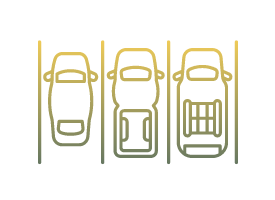
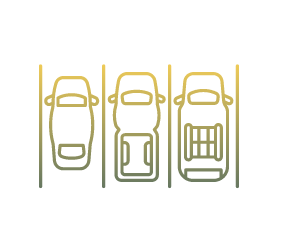
home-adj

Changed region(s): [[0.1164, 0.18, 0.8727, 0.84]]

diff --git a/app/assets/stylesheets/components/_navbar.scss b/app/assets/stylesheets/components/_navbar.scss
@@ -18,8 +18,45 @@
   width: 150px;
 }
 
+.nav-item-dropdown {
+  z-index: 4;
+}
+
 .nav-link {
-  color: rgb(224, 215, 195);
+  display: block;
+  padding: var(--bs-nav-link-padding-y) var(--bs-nav-link-padding-x);
+  font-size: var(--bs-nav-link-font-size);
+  font-weight: var(--bs-nav-link-font-weight);
+  color: var(--bs-nav-link-color);
+  text-decoration: none;
+  transition: color 0.15s ease-in-out, background-color 0.15s ease-in-out, border-color 0.15s ease-in-out;
+  color: rgb(120, 157, 114);
+}
+
+#name{
+  color: rgb(120, 157, 114);
+}
+#name:hover{
+  color:  rgb(120, 157, 114);
+}
+
+.nav-link:hover{
+  color: rgb(65, 87, 62);
+}
+
+.link-to-login{
+  display: block;
+  padding: var(--bs-nav-link-padding-y) var(--bs-nav-link-padding-x);
+  font-size: var(--bs-nav-link-font-size);
+  font-weight: var(--bs-nav-link-font-weight);
+  color: var(--bs-nav-link-color);
+  text-decoration: none;
+  transition: color 0.15s ease-in-out, background-color 0.15s ease-in-out, border-color 0.15s ease-in-out;
+  color: rgb(136, 175, 130);
+}
+
+.link-to-login:hover{
+  color: rgb(65, 87, 62);
 }
 
 #navbarDropdown{

diff --git a/app/assets/stylesheets/components/_card_home.scss b/app/assets/stylesheets/components/_card_home.scss
@@ -5,7 +5,6 @@
 }
 
 .how-it-works{
-  width: 900px;
   margin: auto
 }
 
@@ -14,11 +13,19 @@
   justify-content: space-between;
   margin-bottom: 30px;
   height: 300px;
+  .link-to-login h3{
+    text-decoration: none;
+    color: black;
+  }
+  .link-to-login p{
+    text-decoration: none;
+    color: grey;
+  }
 }
 
 img {
   height: 110px;
-  width: 100px;
+  width: 110px;
   align-items: center;
 }
 
@@ -26,13 +33,18 @@ img {
   display: flex;
   align-items: center;
   text-align: center;
-  width: 200px;
+  width: 30%;
   box-shadow: 0 0 15px rgba(0, 0, 0, 0.2);
-  margin: auto;
-  border: 4px;
+  margin: 20px;
+  border-radius: 4px;
   border: 1px solid rgb(230,230,230);
   padding: 20px;
 }
+
+.card:hover {
+  margin: 18px;
+}
+
 
 h2 {
   font-size: 30px;
@@ -49,7 +61,7 @@ h2 {
   opacity: 0.5;
 }
 
-a{
+a {
   text-decoration: none;
   color: black;
 }

diff --git a/app/assets/stylesheets/components/_footer.scss b/app/assets/stylesheets/components/_footer.scss
@@ -10,20 +10,27 @@ footer {
   padding: 10px;
   background-color: rgb(33, 31, 28);
   margin-top: auto;
+
+  h2 {
+    font-weight: lighter;
+    color:#8f8c8c;
+    padding: 5px;
+    font-size: 17px;
+    margin-top: 10px;
+  }
 }
 
-h2 {
-  font-weight: lighter;
-  color:#8f8c8c;
-  padding: 5px;
-  font-size: 17px;
-}
 .social_icon{
+  margin-top: 10px;
   color:rgb(129, 162, 119);
   font-weight: 700;
   font-size: 30px;
   text-decoration: none;
   Transition: 0,4s easy-in-out;
+}
+
+.social_icon:hover{
+  color:rgb(95, 120, 88);
 }
 
 .inline {
@@ -34,4 +41,5 @@ h2 {
 
 .list_inline{
   padding: 0px;
+  margin: 10px;
 }

diff --git a/app/assets/stylesheets/pages/_index.scss b/app/assets/stylesheets/pages/_index.scss
@@ -84,11 +84,11 @@ color: black;
 
 
 .map-search {
+  z-index: -1;
   position: fixed;
   margin-left: 700px;
   width: 100%;
   border-radius: 50px;
-
 }
 
 
